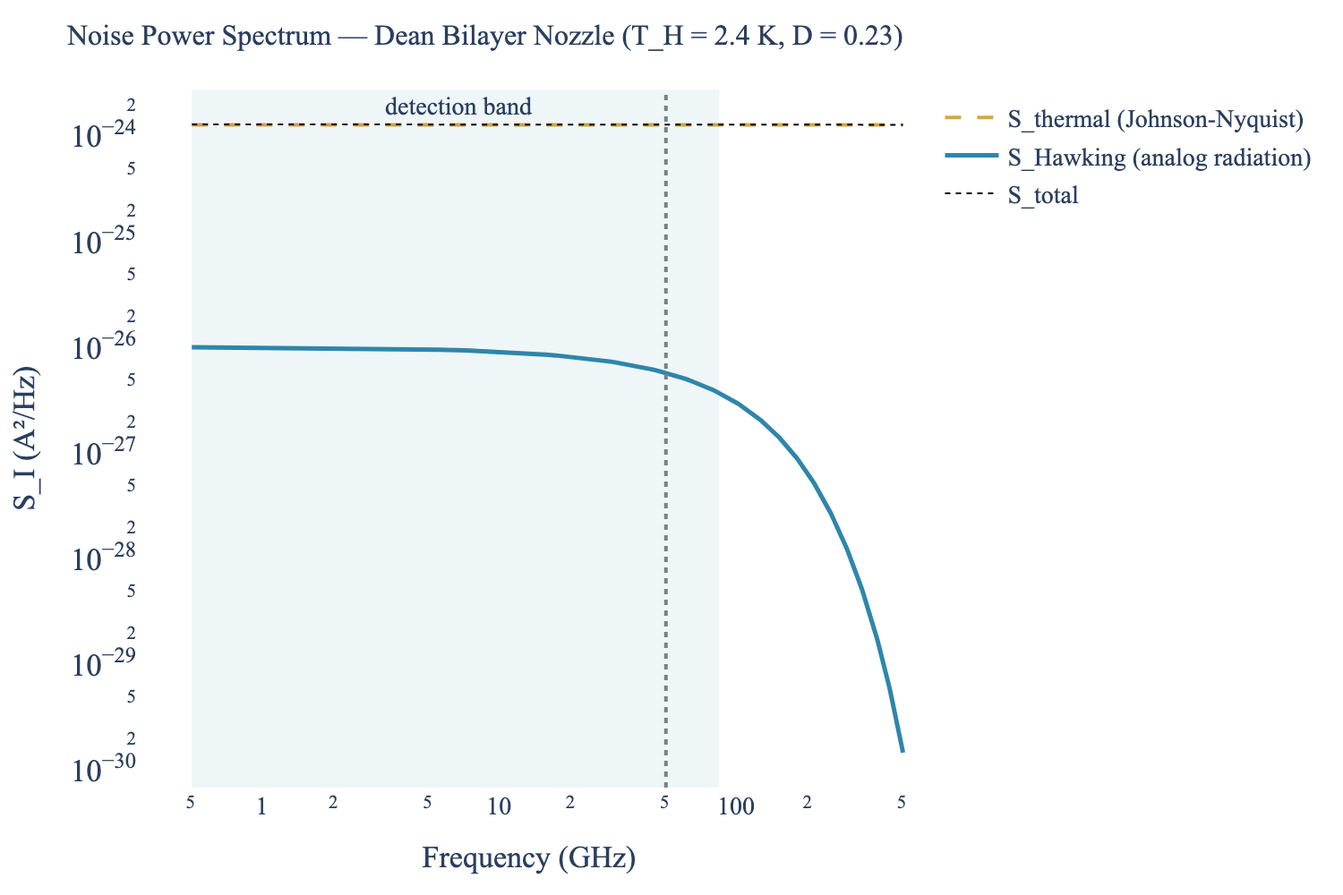
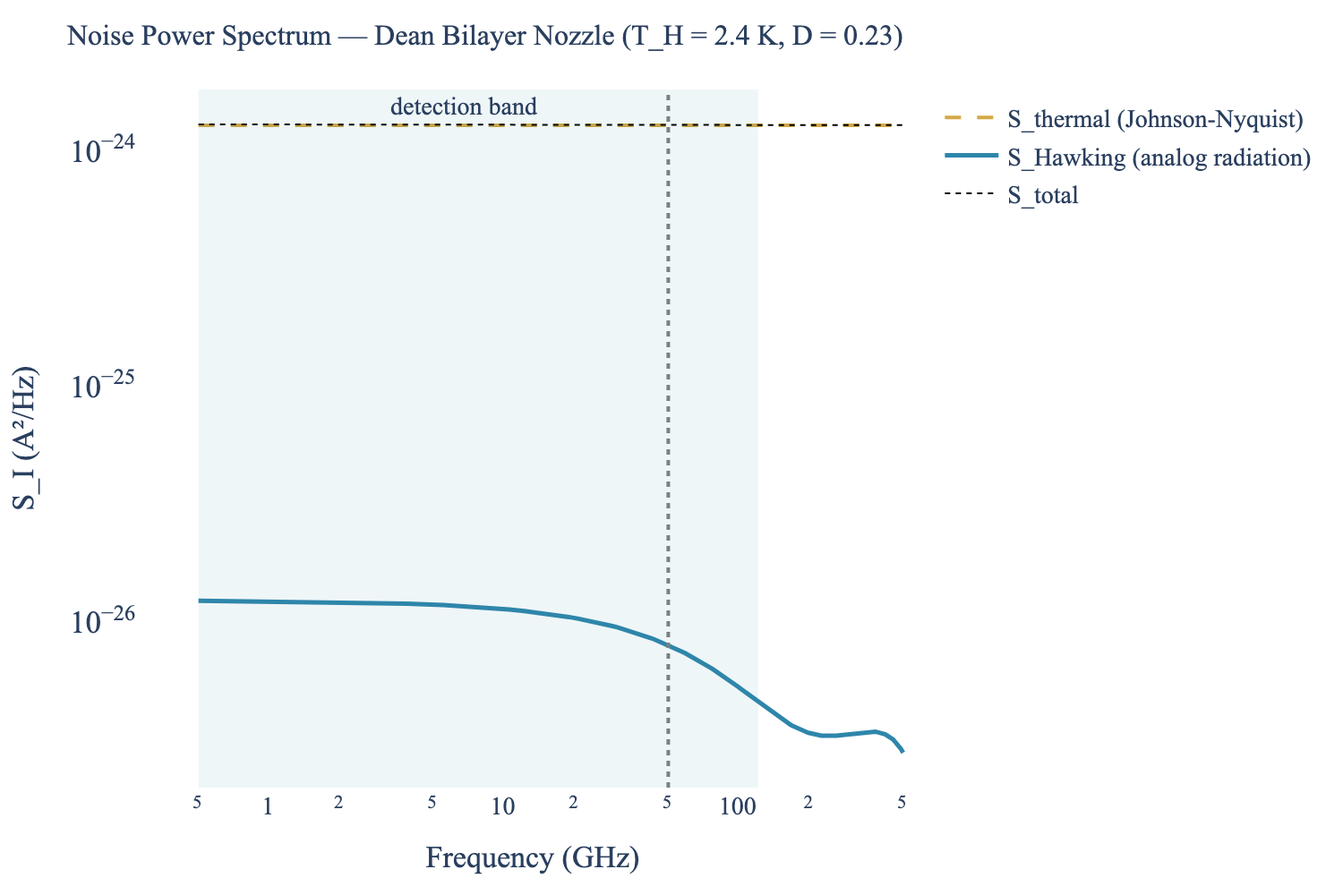
Qualify E2 greybody and electrical-readout claims

diff --git a/papers/E2/paper_draft.tex b/papers/E2/paper_draft.tex
@@ -23,15 +23,14 @@
 \date{\today}
 
 \begin{abstract}
-A sonic horizon in the bilayer-graphene electron fluid radiates as excess
-current noise, a low-frequency plateau $2k_BT_H\sigma_Q$ falling off above
-$\omega_H$. At the de~Laval nozzle of Geurs \emph{et al.}, at an assumed
-gradient $\kappa = \SI{2e12}{\per\second}$, this is
-\SI{1.2e-26}{\ampere\squared/\hertz}, separated by shape from a
-$100\times$ larger Johnson--Nyquist background. With an adopted
-quadratic dispersive law, dispersive and viscous shifts are comparable
-and opposite; their net sign changes between two electron-electron
-length estimates. The law, gradient and transport inputs remain assumptions.
+We model analog Hawking current noise in a bilayer-graphene nozzle.
+At an assumed gradient $\kappa=\SI{2e12}{\per\second}$, the corrected
+illustration gives a low-frequency excess of
+\SI{1.2e-26}{\ampere\squared/\hertz}, about $100$ times below the thermal
+background. Extracting temperature requires independent transmission,
+readout and background calibration. An adopted quadratic dispersive law
+gives opposing dispersive and viscous shifts. The law, electrical response,
+gradient and transport inputs remain assumptions.
 \end{abstract}
 
 \maketitle
@@ -90,9 +89,10 @@ Both are machine-checked in \texttt{DiracFluidMetric.lean} as
 \texttt{diracFluidMetric\_y\_offdiag\_zero}
 ($\forall v, v_F, \Omega^2, j \neq 2: G_{2j} = 0$) and
 \texttt{diracFluidMetric\_gyy} ($G_{22} = \Omega^2$), algebraic identities
-about Eq.~\eqref{eq:metric} that are exactly what they look like. Their
-consequence is that the $(t,x)$ block is isomorphic to the $1{+}1$D
-acoustic metric, so every $1{+}1$D result transfers to it.
+about Eq.~\eqref{eq:metric} that are exactly what they look like.
+The $(t,x)$ block supplies the reduced acoustic geometry; transferring
+scattering or readout results additionally requires matching dynamics
+and boundary conditions.
 
 The transverse-channel cutoff is the only genuinely $2{+}1$D effect. For a
 channel of width $W$ with Dirichlet boundaries,
@@ -265,24 +265,20 @@ measurement exists.
 %% ══════════════════════════════════════════════════════════════════
 \section{The current-noise observable}
 
-The Hawking flux at an electronic horizon is a current, so it appears as
-excess current noise, and two routes give one closed form. The
-Callen--Welton fluctuation-dissipation theorem~\cite{CallenWelton1951} for
-a hydrodynamic conductor gives the symmetrized noise, with pair creation at
-the horizon replacing the thermal $\coth$ kernel by
-$F_u(\omega) = 1 + 2\Gamma(\omega)n_H(\omega)$. Separately, the B\"uttiker
-multichannel formula~\cite{Blanter2000} generalized to Bogoliubov-mixing
-channels on the template of Anantram and Datta~\cite{AnantramDatta1996},
-for a 2D conductor with $N_{\rm eff} = \sigma_Q h/(2e^2)$ channels, gives
+We adopt an electrical-noise response motivated by two analogies:
+a modified Callen--Welton fluctuation-dissipation
+kernel~\cite{CallenWelton1951}, modeled as $F_u=1+2\Gamma n_H$, and multichannel scattering~\cite{Blanter2000}
+with Bogoliubov mixing~\cite{AnantramDatta1996} and
+$N_{\rm eff}=\sigma_Qh/(2e^2)$. Assuming this electrical coupling and
+channel normalization gives the leading model
 \begin{equation}
 \boxed{\;\Delta S_I(\omega) = 2\hbar\omega\,\sigma_Q\,\Gamma(\omega)\,n_H(\omega)\;}
 \label{eq:noise_psd}
 \end{equation}
-with $n_H = [e^{\hbar\omega/k_B T_H} - 1]^{-1}$, dimensionally
-$\mathrm{J}\cdot\mathrm{S} = \mathrm{A}^2/\mathrm{Hz}$ as required.
-
-The agreement of the two routes is established here by matching prefactors
-and channel content, and is not what the machine checking covers.
+with $n_H=[e^{\hbar\omega/k_BT_H}-1]^{-1}$ and units
+$\mathrm{J}\cdot\mathrm{S}=\mathrm{A}^2/\mathrm{Hz}$.
+These analogies do not establish the physical graphene response or the
+equivalence of its derivations.
 \texttt{GrapheneNoiseFormula.fdt\_consistency} states
 $\forall \hbar\omega, \sigma_Q, n_H:
 \texttt{hawkingNoisePSD}(\hbar\omega,\sigma_Q,1,n_H)
@@ -292,32 +288,30 @@ the closed form's algebraic identity at unit greybody factor. It certifies
 neither derivation nor their equivalence, and despite its name no
 fluctuation-dissipation content enters it.
 
-Since $\omega n_H(\omega) = (k_B T_H/\hbar)\,x/(e^x-1)$ with
-$x = \hbar\omega/k_B T_H$, the spectrum is a low-frequency plateau falling
-monotonically: it does \emph{not} peak at $\omega_H$. The plateau is
+For constant $\Gamma$, Eq.~\eqref{eq:noise_psd} has a monotonically
+falling Planck shape, $x/(e^x-1)$ with $x=\omega/\omega_H$. Its plateau is
 \begin{equation}
-\Delta S_I(\omega \to 0) = 2 k_B T_H \sigma_Q \Gamma_0
-= \SI{1.2e-26}{\ampere\squared/\hertz},
+\Delta S_I(\omega\to0)=2k_BT_H\sigma_Q\Gamma_0
+\simeq\SI{1.0e-26}{\ampere\squared/\hertz},
 \label{eq:plateau}
 \end{equation}
-halving at $\omega = 1.6\,\omega_H$ and independent of the detector's
-tuning, which is why the discriminant is shape.
+and its half-height is at $1.6\,\omega_H$ in this leading model.
+The corrected numerical illustration below uses a different occupation
+and gives approximately \SI{1.2e-26}{\ampere\squared/\hertz}.
 
-The greybody factor encodes departure from a perfect thermal emitter. For a
-smooth $1{+}1$D acoustic horizon the zero-frequency limit is
-profile-independent, $\Gamma_0 = 4 c_R v/(c_R+v)^2$~\cite{AndersonBFP2013},
-% TODO: this closed form and its profile-independence are attributed to
-% Anderson, Balbinot, Fabbri and Parentani, PRD 87, 124018 (2013), which is
-% NOT held in Lit-Search/Phase-*/primary-sources/ and has not been read at
-% page level. Verify against the primary before submission.
-giving $\Gamma_0 = 0.99995$ at $v = 0.985c_s$, $c_R \approx c_s$, so the
-prefactor of Eq.~\eqref{eq:noise_psd} is effectively $\sigma_Q$. In the
-adiabatic regime
-$\Gamma(\omega) \approx \Gamma_0[1 - (\omega/\omega_{\max})^2]$ with
-$\omega_{\max} = \sqrt{\kappa c_s/l_{\rm ee}} \approx 7.8\,\omega_H$, so
-$\Gamma$ stays within a few percent of $\Gamma_0$ across the band. Its
-frequency dependence is the largest device-specific unknown in the
-spectrum's shape, which is what the discriminant is built on.
+Anderson \emph{et al.}~\cite{AndersonBFP2014Graybody}, Eq.~(36), derive
+$\Gamma_0=4c_Rv/(c_R+v)^2$ in the infrared for a hydrodynamic,
+transversely frozen BEC with stationary constant flow and density and
+smooth sound speed approaching fixed asymptotes. Here $c_R$ is the
+exterior asymptotic sound speed. Profile independence holds within this
+model at $\omega\to0$; it establishes neither graphene transmission nor
+finite-frequency behavior. Adopting $c_R\approx c_s$ and $v/c_R=0.985$
+gives $\Gamma_0=0.99994$, an illustrative matching assumption.
+We also adopt the quadratic roll-off
+$\Gamma(\omega)\approx\Gamma_0[1-(\omega/\omega_{\max})^2]$, with
+$\omega_{\max}=\sqrt{\kappa c_s/l_{\rm ee}}\approx7.8\,\omega_H$.
+This ansatz suppresses transmission by $26.3\%$ at $4\omega_H$; the
+cited infrared result supplies no finite-band error bound.
 
 %% ══════════════════════════════════════════════════════════════════
 \section{Detection and the falsifiable window}
@@ -325,52 +319,53 @@ spectrum's shape, which is what the discriminant is built on.
 \begin{figure}[t]
 \centering
 \includegraphics[width=\columnwidth]{figures/fig104_graphene_noise_spectrum.png}
-\caption{Hawking excess current noise (Eq.~\eqref{eq:noise_psd}) at the
-bilayer-nozzle parameters: a \SI{1.2e-26}{\ampere\squared/\hertz}
-low-frequency plateau falling to half height at $1.6\,\omega_H$. The white
-Johnson--Nyquist background
-$4k_B T_{\rm e}\sigma_Q = \SI{1.3e-24}{\ampere\squared/\hertz}$ at
-$T_{\rm e} = \SI{150}{\kelvin}$ lies two orders of magnitude above it, and
-is separated from it by shape, not amplitude.}
+\caption{Adopted corrected noise model at the bilayer-nozzle inputs:
+occupation $\beta^2/(1-\delta_K)+n_{\rm noise}$, where $\beta^2$
+is the effective-temperature Planck factor, $\delta_K$ the adopted
+Keldysh correction and $n_{\rm noise}$ its added floor, with
+frequency-dependent greybody transmission. Its low-frequency excess is approximately
+\SI{1.2e-26}{\ampere\squared/\hertz}; it is not exactly the leading
+Planck model of Eq.~\eqref{eq:noise_psd}. The assumed Johnson--Nyquist
+background is $4k_BT_{\rm e}\sigma_Q=\SI{1.3e-24}{\ampere\squared/\hertz}$
+at $T_{\rm e}=\SI{150}{\kelvin}$. Shading marks a computed SNR heuristic,
+not Eq.~\eqref{eq:falsifiable_window}; extracting a signal requires
+transmission, detector-transfer and background calibration.}
 \label{fig:noise}
 \end{figure}
 
-The excess sits a factor $\sim100$ below the Johnson--Nyquist floor
-$4k_B T_{\rm e}\sigma_Q = \SI{1.3e-24}{\ampere\squared/\hertz}$, so
-detection is a shape measurement. The per-bin ratio
-$\hbar\omega\Gamma n_H/(2k_B T_{\rm e})$ peaks at $9.6\times10^{-3}$ at the
-low-frequency end; integrating its square across
-\SIrange{0.5}{507}{\giga\hertz} gives a statistics-limited integration time
-of \SI{1.3e-7}{\second}, and \SI{6.4e-6}{\second} in the single best bin.
-Both assume a background stable in gain and temperature to better than
-$1\%$, which no cryogenic amplifier chain provides; the measurement is
-systematics-limited by many orders of magnitude, and these times are quoted
-only to show that shot noise is not the obstacle.
+The corrected illustration has a peak modeled ratio
+$S_{\rm Hawking}/S_{\rm thermal}=9.6\times10^{-3}$.
+Integrating its squared per-bin ratio across
+\SIrange{0.5}{507}{\giga\hertz} gives an ideal statistics-model time of
+\SI{1.3e-7}{\second}, or \SI{6.4e-6}{\second} in the single best bin.
+These estimates exclude gain drift, background uncertainty and correlated
+noise; they establish no achieved sensitivity. Resolving this small
+excess requires independent noise and transfer characterization.
 
-The window over which the prediction is cleanest is
+We propose the working band
 \begin{equation}
 \boxed{\;\omega/\omega_H \in [0.5, 4]\;}
 \label{eq:falsifiable_window}
 \end{equation}
-Below it the plateau carries no shape information and the measurement
-degenerates into an amplitude comparison against an uncalibrated
-background; above it the greybody roll-off and the transverse-channel edge
-enter. Inside it the adopted dispersive shift is small at the chosen inputs,
-$\Gamma$ stays within a few percent of $\Gamma_0$, and the lowest transverse channel
-is closed at the assumed $W$.
+conditionally on measured transmission, dispersion, channel structure and
+readout. The low-frequency plateau alone supplies amplitude information;
+at the upper edge the adopted roll-off already suppresses $\Gamma$ by
+$26.3\%$. The adopted dispersive shift is small at the chosen inputs and
+the lowest transverse channel is closed at the assumed $W$; these facts
+do not establish a clean, error-controlled detection band.
 
-A measured $\Delta S_I(\omega)$ in this band fixes $T_H$ from the Planckian
-shape and $\sigma_Q$ from the plateau height independently, so one spectrum
-tests the framework twice. The prediction fails if the profile is Planckian
-at a temperature inconsistent with Eq.~\eqref{eq:T_H} at the measured
-velocity gradient, or if the plateau height is inconsistent with
-$2k_B T_H \sigma_Q$ at the measured $\sigma_Q$. It is not falsified by
-disagreement in $T_H$ alone while $\kappa$ is unmeasured. Three
-measurements would convert this Letter's assumptions into data: the
-velocity gradient at the sonic point, from the Kelvin-probe profile already
-demonstrated in Ref.~\cite{Geurs2025}; $\sigma_Q$ and $\eta/s$ on the
-nozzle device at its operating density; and the throat width and
-electron-electron length at operating bias.
+An unknown $\Gamma(\omega)$, detector transfer or residual background can
+alter both shape and normalization. One uncalibrated spectrum therefore
+cannot independently identify $T_H$ and $\sigma_Q$; even the leading
+plateau determines a product involving $\Gamma_0$ and gain.
+With those responses calibrated and operating-point conductivity measured,
+a fitted temperature can test Eq.~\eqref{eq:T_H} at a measured velocity
+gradient, and normalization can test the adopted noise response.
+Disagreement in $T_H$ alone while $\kappa$ is unmeasured is inconclusive.
+Required device measurements include the sonic-point gradient, using a
+profile technique such as Ref.~\cite{Geurs2025}'s; $\sigma_Q$ and $\eta/s$
+at operating density; throat width and electron-electron length at bias;
+and independent transmission, electrical-transfer and noise calibration.
 
 Comparison across platforms requires a common normalization, which this
 literature does not use uniformly. Falque \emph{et al.}~\cite{Falque2025}
@@ -396,24 +391,22 @@ companion paper~\cite{Roehm2026GrapheneDeep}.
 %% ══════════════════════════════════════════════════════════════════
 \section{Conclusion}
 
-The bilayer-graphene electronic de~Laval nozzle is the first platform on
-which an analog Hawking spectrum is both thermodynamically accessible and
-electrically readable. At the assumed gradient
-$\kappa = \SI{2e12}{\per\second}$ it radiates at \SI{2.43}{\kelvin}, nine
-orders of magnitude above atomic BEC and roughly twenty times above the
-polariton platform on a common normalization, and the signal is a
-\SI{1.2e-26}{\ampere\squared/\hertz} Planckian excess separated from a
-white background by shape over $\omega/\omega_H \in [0.5,4]$. For the
-adopted quadratic dispersive law and transport inputs, the
-dispersive and dissipative shifts are comparable, opposite and small.
-Their ratio is a conditional model outcome; establishing the physical
-dispersive response requires a device-specific calculation.
+The bilayer-graphene nozzle offers a prospective test of an adopted
+Hawking-noise model. The assumed gradient
+$\kappa=\SI{2e12}{\per\second}$ gives $T_H=\SI{2.43}{\kelvin}$,
+roughly twenty times the smooth polariton scale on a common normalization.
+The corrected numerical illustration has a low-frequency excess near
+\SI{1.2e-26}{\ampere\squared/\hertz}; its extraction requires calibrated
+transmission, electrical response and background. For the adopted
+quadratic law and transport inputs, dispersive and dissipative shifts
+are comparable, opposite and small. Their ratio and net sign remain
+conditional on the law and electron-electron length; a device-specific
+dispersive calculation is required.
 
-That prediction is gated on three inputs the experiment has not supplied.
-The velocity gradient at the sonic point fixes the entire frequency scale,
-and is why our temperature differs from Ref.~\cite{Geurs2025}'s own
-estimate by a factor of five. Within the adopted law, the electron-electron length fixes the sign
-of the net shift. The machine-checked chain
+The unmeasured sonic-point gradient sets the frequency scale and accounts
+for the factor-five difference from Ref.~\cite{Geurs2025}'s temperature
+estimate. Transport, geometry and readout remain additional experimental
+gates. The machine-checked chain
 (\texttt{DiracFluidMetric}, \texttt{DiracFluidWKB},
 \texttt{GrapheneHawking}, \texttt{GrapheneNoiseFormula},
 \texttt{QuasiOneDReduction}; \texttt{lake build} clean, v\leantoolchain,
@@ -479,9 +472,10 @@ P.~Romatschke, Int.\ J.\ Mod.\ Phys.\ E \textbf{19}, 1 (2010).
 \bibitem{CallenWelton1951}
 H.~B.~Callen and T.~A.~Welton, Phys.\ Rev.\ \textbf{83}, 34 (1951).
 
-\bibitem{AndersonBFP2013}
-P.~R.~Anderson, R.~Balbinot, A.~Fabbri, and R.~Parentani, Phys.\ Rev.\ D
-\textbf{87}, 124018 (2013).
+\bibitem{AndersonBFP2014Graybody}
+P.~R.~Anderson, R.~Balbinot, A.~Fabbri, and R.~Parentani,
+``Gray-body factor and infrared divergences in 1D BEC acoustic black holes,''
+Phys.\ Rev.\ D \textbf{90}, 104044 (2014), arXiv:1404.3224v3.
 
 \bibitem{Blanter2000}
 Ya.~M.~Blanter and M.~B\"uttiker, Phys.\ Rep.\ \textbf{336}, 1 (2000).

diff --git a/src/core/citations.py b/src/core/citations.py
@@ -12957,6 +12957,23 @@ CITATION_REGISTRY = {
         'provides': [],
         'notes': 'Publisher bibliographic identity verified 2026-10-15. Full body not held or read in this package. Existing acquisition writer cached Crossref metadata only on 2026-10-15; no abstract or full body was acquired, so this does not back a source-content claim. No citation-class exemption is declared.',
     },
+
+    'AndersonBFP2014Graybody': {
+        'authors': 'P. R. Anderson, R. Balbinot, A. Fabbri, R. Parentani',
+        'title': 'Gray-body factor and infrared divergences in 1D BEC acoustic black holes',
+        'journal': 'Phys. Rev. D',
+        'volume': '90',
+        'page': '104044',
+        'year': 2014,
+        'doi': '10.1103/PhysRevD.90.104044',
+        'doi_verified': None,
+        'arxiv': '1404.3224v3',
+        'inprep': False,
+        'primary_source_path': 'Lit-Search/Phase-1-and-Background/primary-sources/AndersonBFP2014Graybody.pdf',
+        'used_in': ['papers/E2/paper_draft.tex'],
+        'provides': ['Infrared transmission probability for the specified stationary 1D BEC model (Eq. 36)'],
+        'notes': 'Held arXiv:1404.3224v3 (8 January 2015), five actual PDF pages; distinct from PRD 87, 124018 (2013). v3 corrects published Eq. (21); the cited infrared result is Eq. (36), p. 3. Assumes hydrodynamic, transversely frozen elongated BEC with stationary constant flow velocity and density and smooth sound speed with fixed asymptotes (p. 2). c_R is the subsonic asymptotic sound speed. This source does not establish graphene transmission, finite-frequency quadratic roll-off, detector response or readout identifiability.',
+    },
 }
 
 

diff --git a/papers/AutomatedReviews/2026-10-15-e2-greybody-readout/SOURCE_ASSESSMENT.md b/papers/AutomatedReviews/2026-10-15-e2-greybody-readout/SOURCE_ASSESSMENT.md
@@ -1,0 +1,35 @@
+# E2 source, numerical illustration and readout scope
+
+Author evidence at base `47fc03095733ae2a840ce1146d4d8374a700dc29`; final independent manuscript acceptance is recorded in SCOPED_REVIEW.md; the supported closure and separate ledger audit are accepted; see SCOPED_REVIEW.md. Process outputs and actual returned independent review bodies are preserved separately in ignored local receipts; this narrative is not an original process log.
+
+## Source identity and limits
+
[1 lines of base64/hex data omitted]
+
+Lead and independent source reviewer read the model assumptions and derivation on actual pp. 2–3. The hydrodynamic wavelengths and smooth profile scales exceed the healing length. The elongated condensate is transversely frozen, stationary, of constant flow velocity and density, with a varying sound speed approaching fixed subsonic and supersonic asymptotes. Eq. (36), p. 3, gives the infrared transmission probability `4 c_R v/(c_R+v)^2`; c_R is the subsonic exterior asymptotic sound speed. Footnote 3 restricts profile independence to that infrared asymptotic result. This does not establish graphene matching, finite-frequency roll-off, electrical coupling, detector transfer or calibrated sensitivity.
+
+The 2013 PRD **87**, 124018 work is distinct: *Hawking radiation correlations in Bose-Einstein condensates using quantum field theory in curved space*. The independent reviewer read its published author-hosted pp. 1–4 at [the primary author site](https://users.wfu.edu/anderson/research/massless_BEC.pdf). No 2013 artifact was acquired here, and no new 2014 file is presented as that source. Historical E2-09 has no minted finding identifier; its actual 2013 filename acquisition guard fails and is not closed by this package. The existing 2013 registry identity and other consumers remain unchanged.
+
+ROOT applied only the new 2014 registry identity after source review. The existing acquisition writer actually fetched the pinned v3 PDF and recorded one real new sidecar entry. Old identities and acquisition records must remain unchanged; preservation is independently audited before delivery. No cache exemption or ceiling was relaxed.
+
+## Arithmetic and model identity
+
+At the adopted asymptotic ratio v/c_R=0.985, Gamma0 is `0.9999428966619928`, rounding to **0.99994**. This is an illustrative matching assumption. The separately adopted quadratic roll-off with cutoff approximately 7.8 omega_H suppresses transmission by `(4/7.8)^2=0.2629848784`, or **26.3 percent**, at four Hawking frequencies. Neither few-percent flatness nor a finite-band error bound follows from the cited source.
+
+The leading Planck model in Eq. (6), with constant transmission, has plateau `2 k_B T_H sigma_Q Gamma0`, approximately `1.0403e-26 A2/Hz` at canonical inputs, and half-height near 1.6 omega_H. The unchanged canonical computation instead uses an effective-temperature Planck factor divided by `1-delta_k`, plus `fdr_noise_floor(delta_k)`, followed by the adopted frequency-dependent greybody factor. It gives a first sampled excess `1.2339623079054966e-26 A2/Hz` at 0.01 omega_H. That finite-frequency sample is not an exact zero-frequency limit. The corrected illustrative plateau is approximately 1.2e-26 at manuscript precision; it is not the exact leading-model equality.
+
[1 lines of base64/hex data omitted]
+
+The shaded interval is the producer's sampled SNR greater than peak/e interval, approximately 0.507–122.377 GHz. It differs from the full approximately 0.5–507 GHz integration grid and the proposed [0.5,4] omega_H working band. The caption distinguishes these. The retained modeled peak ratio 9.6e-3 and ideal statistics times approximately 1.3254e-7 s (combined) and 6.3937e-6 s (single best bin) belong to the corrected model. They exclude gain drift, background uncertainty and correlated noise; they establish no achieved sensitivity or experimental feasibility.
+
+An unknown transmission function, detector transfer or residual background can alter shape and normalization. A single uncalibrated spectrum cannot independently determine temperature and conductivity. The plateau measures a product involving transmission and gain. The abstract, model discussion, caption, extraction discussion and conclusion consistently require calibration. Geometric block diagonalization supplies no automatic transfer of scattering/readout dynamics. The Lean identity retains its exact definitional scope and supplies no physical response derivation; no fresh Lean build was run or claimed.
+
+## Actual validation and remaining boundaries
+
+- Twelve focused existing tests passed: infrared greybody arithmetic/bounds, smooth-profile behavior, corrected occupation/formula consistency and current registry/orphan coverage. The newly declared compound Verify passed: content regression floors, two existing citation-coverage tests and the complete existing citation-cache check.
+- The complete citation check passes with zero missing registry keys and zero needed cache artifacts. Existing abstract-only, metadata-only, undeclared-class and preprint/publication-year advisories remain explicit and unwaived.
+- Existing isolated compiler: four pages, one overfull box, zero TeX errors, zero unresolved PDF references and zero dropped class options. The overfull box is pre-existing and unwaived. The complete original TeX log is retained with the actual command receipt.
+- Existing manuscript helper after compile: **3629/3750 word-equivalents**, including the unchanged two-figure allowance; **482/600 abstract characters**, zero TODO markers. The declared abstract-ceiling source remains unverified; no ceiling or verification flag changed.
+- Lead inspected all four actual compiled page PNGs, including changed abstract/reduction, noise/source/model/caption, and extraction/conclusion/bibliography. Figure axes/legend and revised text are visible at column scale. Actual compile/pixels do not establish scientific source fidelity by themselves.
+
+Final independent whole affected claim-set/source/model/pixel review accepted the bounded package; the supported closure and separate ledger audit are accepted; see SCOPED_REVIEW.md. No broad or production-seeded tests, graph/runtime actions, Lean/cache/controller repair, main merge or external submission occurred. Existing stages/freshness/manifests and other bundles are preserved. Combined-head integration and full publication acceptance remain ROOT-owned.

diff --git a/papers/AutomatedReviews/2026-10-15-e2-greybody-readout/SCOPED_REVIEW.md b/papers/AutomatedReviews/2026-10-15-e2-greybody-readout/SCOPED_REVIEW.md
@@ -1,0 +1,27 @@
+# Independent E2 source/model/pixel review
+
+## Final manuscript review — scoped acceptance
+
+An independent reviewer accepted the bounded E2 greybody/readout package after a fresh continuity check and review of the whole current manuscript, complete diff, concrete accepted design, held source, canonical model/figure producer, actual trace records and all four compiled page images. The actual returned reasoning body and read-only preservation-process receipt are retained separately as ignored local evidence; this report summarizes their result and is not an original execution log.
+
+The reviewer independently reread the held source header and full pp. 2–3, including Eq. (36) and footnote 3. Its arXiv v3 identity, actual five-page length and hash match the acquisition record. The revised manuscript accurately states the infrared, constant-flow/density hydrodynamic BEC scope and exterior asymptotic sound speed. Graphene matching, finite-frequency roll-off and electrical response remain adopted. Gamma0 rounding and the 26.3-percent upper-band suppression agree with direct arithmetic.
+
+The affected abstract, geometric-transfer antecedent, noise model, caption, detection/extraction discussion and conclusion distinguish the approximately 1.0e-26 leading Planck plateau and constant-transmission 1.6-frequency half-height from the approximately 1.2e-26 corrected numerical illustration. Uncalibrated shape/normalization cannot independently identify temperature and conductivity. Ideal integration times establish no achieved sensitivity. The precise limitations of the definitional formal identity are retained.
+
+The actual replacement figure and all four compiled page images were inspected. Text, equations, caption, axes and legend are visible and unclipped in the inspected pages. All three trace records match the canonical producer; the only export-layout change hides minor y-axis labels. The corrected tail and heuristic shaded SNR band are distinguished from the leading model and proposed working band.
+
+The reviewer read the actual raw process receipts: twelve focused tests passed; the exact declared compound Verify exited zero with its two citation tests passing; the complete citation check passed with zero missing keys or required cache files. Existing compiler output records four pages, one existing overfull box, zero TeX errors, zero unresolved references and zero dropped class options. Final size is 3629/3750 word-equivalents and 482/600 abstract characters. The reviewer did not rerun those tests or compilation. Independent read-only preservation checks confirmed all 678 prior registry values and all 655 prior sidecar entry values are identical, with exactly one actual new identity/record; the changelog is append-only, and metadata/stages/manifests/shared numerical and Lean files are unchanged.
+
+No mandatory bounded-scope repair remains. This supports the new focused E2 finding; its subsequent supported closure and separate ledger audit are recorded below. The historical unminted E2-09 2013 acquisition guard remains failed and is not closed using the new 2014 artifact.
+
+## Limits
+
+The overfull box, unverified abstract-ceiling provenance and corpus citation advisories remain unwaived. Source fidelity does not establish graphene transfer, a finite-band bound, electrical coupling, calibrated sensitivity or experimental feasibility. Shared producer comments still contain the excluded old PRD87/realistic/0.9994 wording; this review does not accept those comments or make them backing for the repaired E2 manuscript. Historical build wording is not fresh proof evidence. No live Lean semantic inspection, broad/production-seeded suite, build, canonical extraction or acquisition was run by the final reviewer. Broader integration, full publication acceptance and external submission remain separate.
+
+## Closure audit
+
+The supported writer executed the declared Verify and appended exactly `review:2026-10-15-e2-greybody-readout:E2:1.1`. A separate independent read-only audit accepted the closure after a fresh snapshot check. All 1262 preceding records and enclosing fields are identical, including dates and verification records; exactly one new unique record gives 1263 total. The 15 historical duplicated IDs and excess records are preserved with no new duplicate.
+
+The auditor independently executed the exact declared/recorded compound Verify once: exit zero, two citation tests passed, and content/full-source assertions passed. Its actual argv/cwd/times/return code/full stdout/stderr/environment/source hashes and returned reasoning body are preserved as separate ignored local receipts. The sole artifact anchor resolves to the held 2014 PDF with the recorded complete hash.
+
+All 678 preceding registry values and 655 preceding acquisition entry values are unchanged, with exactly one new key in each. Manuscript, PNG, registry/state and changelog hashes match the accepted final-review snapshot. Metadata/stages/manifests, numerical modules, Lean, tests and scripts remain unchanged. This audit establishes ledger/verification/anchor integrity and preservation; it does not replace the separate scientific/pixel review or broaden publication acceptance.

diff --git a/papers/AutomatedReviews/2026-10-15-e2-greybody-readout/E2.md b/papers/AutomatedReviews/2026-10-15-e2-greybody-readout/E2.md
@@ -1,0 +1,27 @@
+---
+paper: E2
+bundle: E2
+bundle_target: E2
+tier: 4
+reviewer: publication-chat-lead
+review_date: 2026-10-15T00:00:00Z
+kind: focused-greybody-readout-qualification
+---
+
+# E2 infrared source and conditional electrical readout
+
+Base: `47fc03095733ae2a840ce1146d4d8374a700dc29`. Independent final source/model/whole-claim/pixel review accepted the bounded package; the supported closure and separate ledger audit are accepted; see SCOPED_REVIEW.md. The declared content checks are regression floors, not a physical proof. Set REPO to the candidate and use the project environment as python3 on PATH.
+
+### 1.1 — REQUIRED — Distinguish the BEC infrared result, adopted finite-frequency response and calibrated graphene readout
+
+- **Severity:** required
+- **Lane:** `prose`
+- **Target:** `papers/E2/paper_draft.tex`, `papers/E2/figures/fig104_graphene_noise_spectrum.png`, `src/core/citations.py`, `docs/primary_sources_state.json`
+- **Location:** `papers/E2/paper_draft.tex` (abstract, reduced-geometry inference, noise/greybody model, detection/extraction, conclusion and bibliography); `papers/E2/figures/fig104_graphene_noise_spectrum.png` (canonical render); `src/core/citations.py` (single distinct 2014 identity); `docs/primary_sources_state.json` (actual acquisition record).
+- **Gate:** CitationIntegrity
+- **Verify:** `cd "$REPO" && python3 -c 'from pathlib import Path; t=Path("papers/E2/paper_draft.tex").read_text(); assert "AndersonBFP2014Graybody" in t and "AndersonBFP2013" not in t; assert "exterior asymptotic sound speed" in t and "finite-band error bound" in t; assert "0.99994" in t and "26.3" in t; assert "cannot independently identify" in t and "no achieved sensitivity" in t; assert "stays within a few percent" not in t and "first platform" not in t' && python3 -m pytest tests/test_phase6i_wave1.py::test_no_missing_from_registry tests/test_phase6i_wave1.py::test_extract_missing_bibkeys_emits_no_orphans -m '' -q && python3 -c 'import sys; sys.path.insert(0,"scripts"); from validate import check_citation_primary_sources_present; r=check_citation_primary_sources_present(); assert r.passed, r'`
+- **Observed at base:** E2 attributes the infrared transmission closed form to a different 2013 work and retains an unread-source TODO. It generalizes a restricted BEC result to graphene and a finite frequency band, misrounds Gamma0, understates its own quadratic roll-off, equates an uncorrected Planck plateau/half-height with a corrected numerical model, and promises independent temperature/normalization extraction without calibrated transfer. The saved figure differs substantially from the current canonical curve and SNR band.
+- **Expected:** Acquire and read the correct 2014 source while retaining its actual preprint edition. State its infrared BEC assumptions and asymptotic sound speed; label graphene matching, roll-off and electrical response as adopted. Correct direct arithmetic, distinguish leading and corrected models, regenerate the stale local figure through the existing canonical function, and qualify all related inference/feasibility claims. Preserve executable formulas, inputs, formal statements, historical source identities/records and stage/freshness metadata.
+- **Baseline:** The historical unminted E2-09 command actually fails because no held 2013 source exists. This new finding does not rename the 2014 artifact to satisfy that guard or close that historical section. The new content command was not executed on an isolated base; base text and actual saved pixels establish its defects. Existing citation coverage tests already passed at the base and cannot establish physical fidelity.
+- **Evidence:** SOURCE_ASSESSMENT.md records held source/edition, arithmetic, canonical corrected model and figure fidelity, actual focused checks, compile/size/pixel results and preservation boundaries. Final source/model/whole-claim/pixel review is accepted; see SCOPED_REVIEW.md.
+- **Limits:** The declared Verify checks content floors and existing citation/cache coverage; it cannot prove transmission, physical electrical coupling, calibration, identifiability from uncalibrated data or experimental feasibility. Source acquisition is distinct from model validation. The existing 2013 identity and its other consumers remain unchanged. Broader publication/integration, Lean freshness and external submission remain separate.

diff --git a/papers/E2/change_log.md b/papers/E2/change_log.md
@@ -24,3 +24,12 @@ _Initial bookkeeping created 2026-05-01T04:18:23Z by `scripts/bundle_source_mani
 - Qualified abstract, comparison and conclusion consistently. Coefficient changes can move the crossover; the fourteen-percent polariton comparison now identifies the projected 100 ps cavity at Falque's smooth-horizon parameters.
 - Trimmed the corrected passages without removing these qualifications: four-page compile, 3747/3750 word-equivalents and abstract 550/600 characters. The existing abstract-ceiling provenance remains unverified. The one overfull box also occurs in the exact 953dbfc7 baseline. No formula, numerical benchmark, stage/freshness field or last_lift was changed.
 - This is propagation of the E1 source correction, not a new paper review or submission acceptance. Focused evidence is in `papers/AutomatedReviews/2026-10-15-publication-source-propagation/`; independent final review and merge gates remain separate.
+
+
+## 2026-10-15 — Infrared source and conditional electrical-readout model
+
+- Replaced the E2 greybody attribution with the distinct Anderson et al. PRD 90, 104044 (2014), held arXiv:1404.3224v3, Eq. (36). Stated its infrared, constant-flow/density hydrodynamic BEC scope and asymptotic sound speed; graphene matching and finite-frequency roll-off remain adopted.
+- Corrected Gamma0 rounding to 0.99994 and the adopted roll-off suppression at four Hawking frequencies to 26.3 percent. Distinguished the leading Planck plateau (approximately 1.0e-26 A2/Hz) from the corrected numerical illustration (approximately 1.2e-26 A2/Hz); the 1.6-frequency half-height applies only to the leading constant-transmission model.
+- Regenerated the stale local noise figure through the existing canonical function. Its numerical traces are unchanged from the canonical producer; only crowded minor y-axis labels are hidden for export. The caption identifies its corrected occupation and heuristic shaded SNR band. Shared executable modules and other figures are unchanged.
+- Qualified related abstract, geometric-transfer inference, detection/extraction discussion and conclusion: electrical response is adopted, and inference requires transmission, detector-transfer, operating conductivity and background calibration. Ideal timing numbers establish no achieved sensitivity. Removed unsupported priority and universal amplifier assertions.
+- Actual isolated compile: four pages, zero TeX errors/unresolved references/dropped options, one existing overfull box unwaived. Measured 3629/3750 word-equivalents and 482/600 abstract characters; abstract-ceiling provenance remains unverified. No stage, stale, last_lift or manifest field changed. Focused source/model/pixel review and supported closure are recorded separately in `papers/AutomatedReviews/2026-10-15-e2-greybody-readout/`; this is not publication or submission acceptance.
